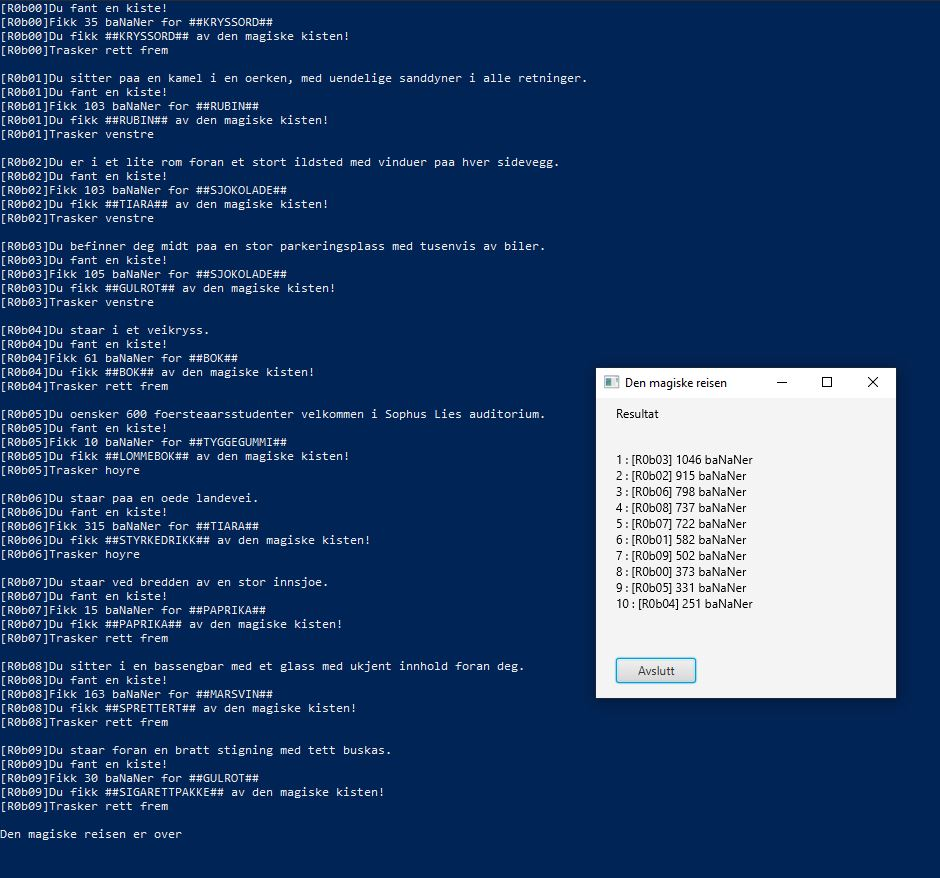
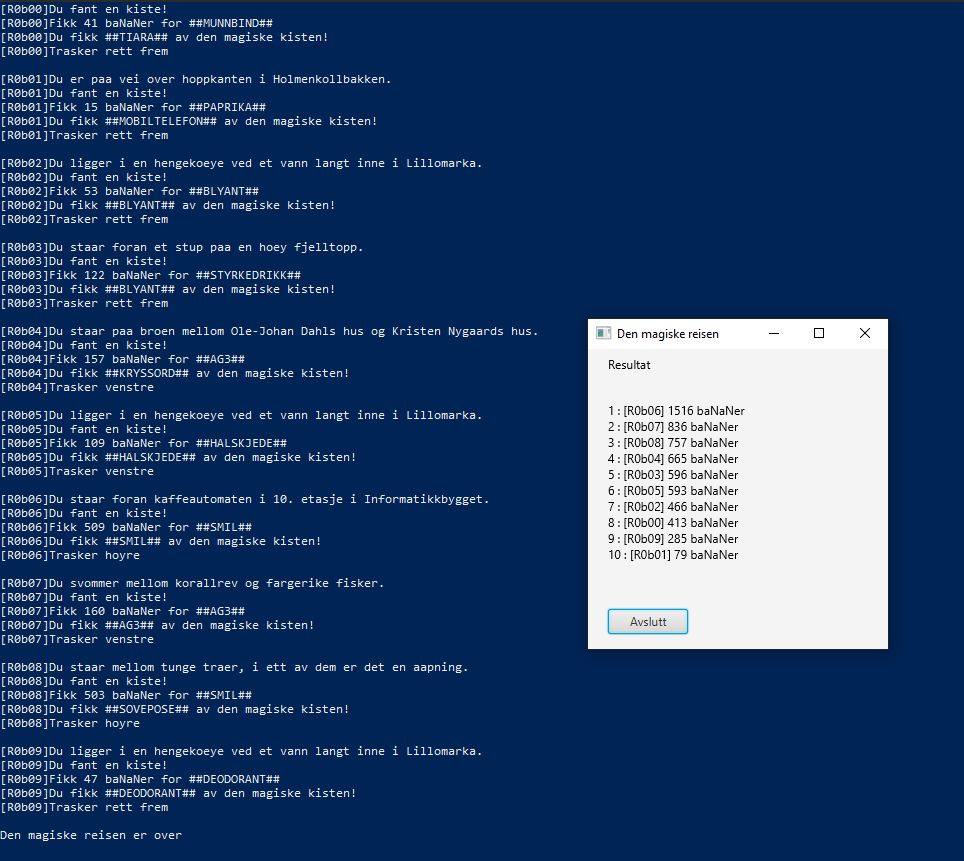
sånn...

Changed region(s): [[0.0, 0.0, 0.9564, 0.9965], [0.5553, 0.0604, 0.617, 0.0906], [0.4319, 0.0604, 0.4936, 0.0906]]

diff --git a/Eksamen/oppg5/Skattkiste.java b/Eksamen/oppg5/Skattkiste.java
@@ -46,9 +46,9 @@ class Skattkiste{
         // hent verdien til gjenstanden
         int verdi = gjenstand.hentVerdi();
 
-        // legg gjenstanden i kisten uten aa endre verdi
-        // legges bakerst
-        innhold.add(gjenstand);
+        // Henter en ny tilfeldig gjenstand istedefor aa legge spillerens gjenstand ned.
+        // Fikset problemet at spilleren ofte fikk tilbake samme gjenstand
+        innhold.add(Terreng.gjenstander[ r.nextInt(Terreng.gjenstander.length)]);
 
         // returner verdi [100%,110%]
         return verdi + r.nextInt(verdi + 1)/10;

diff --git a/Eksamen/oppg5/Spillkontroll.java b/Eksamen/oppg5/Spillkontroll.java
@@ -123,8 +123,8 @@ public class Spillkontroll extends Application{
         }
 
         // lag traad som venter 5 sek foer den avslutter GUI
-        Thread avslutt = new Thread( new StoppGUI() );
-        avslutt.start();
+        // Thread avslutt = new Thread( new StoppGUI() );
+        // avslutt.start();
 
         launch(args);
     }

diff --git a/Eksamen/oppg5/VeivalgSted.java b/Eksamen/oppg5/VeivalgSted.java
@@ -5,7 +5,7 @@ class VeivalgSted extends Sted{
 
     // INSTANSVARIABLER
     VeivalgSted[] utganger = new VeivalgSted[3];
-    String[] retninger = {"rett frem", "hoyre", "venstre"};
+    String[] retninger = {"rett frem", "til hoyre", "til venstre"};
 
 
     // KONSTRUKTOER
